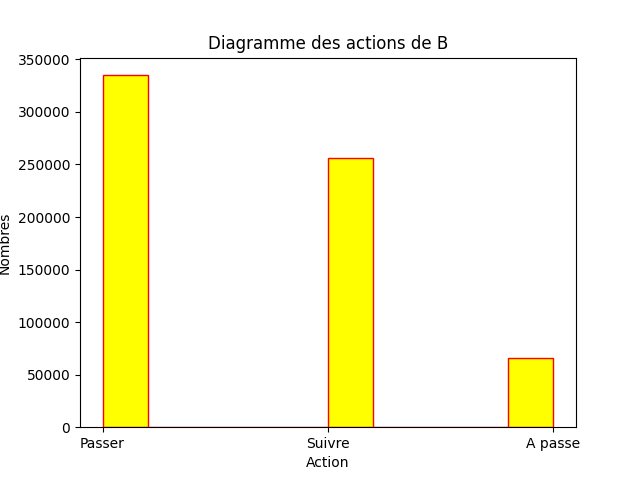
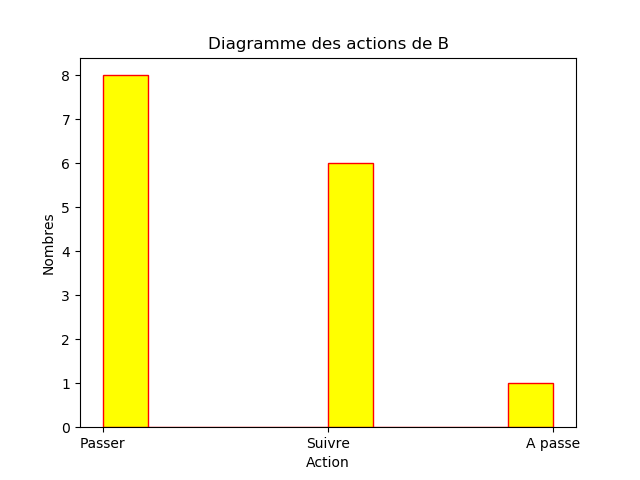
jeu interface qlearning maintenant disponible

diff --git a/Poker.py b/Poker.py
@@ -232,71 +232,91 @@ class Jeu:
 			
 	def jeu_interface_qlearning(self):
 		"""Jeu avec interface graphique"""
+		#initialisation
+		alpha = 0.0001
+		gamma = 0.001
+		epsilon = 0
 		self.tirer()
 		self.aff.charge_cartes()
 		self.aff.place_cartes()
-		ac = self.joueurA.takeAction(0.1) #Le joueur A joue
-		actionA = self.joueurA.ActionsVal(ac) # Le joueurA mise une somme(0, 1, 2, 4) par rapport à l'action effectuée
-		if(actionA > 0): # S'il mise on ajoute au pot
-			self.pot += actionA
-			print("A mise" + str(actionA) )
-			actionB = self.joueurB.jouer(actionA) # Le joueur B joue
-    
-			if(actionB == 0):
+		acb = 2
+		
+		#Déroulement du tour
+		ac = self.joueurA.takeAction(0.1) 
+		miseA = self.joueurA.ActionsVal(ac)
+		
+		####Si Alice mise####
+		if(miseA > 0): 
+			self.pot += miseA
+			print("A mise " + str(miseA) )
+			acb = self.joueurB.takeAction(epsilon, ac)
+			miseB = self.joueurB.ActionsVal(acb, miseA)
+			
+			####Si Bob passe####
+			if(miseB == 0):
 				print("B passe")
-				self.joueurA.ActualiserSolde(self.pot) # S'il passe le joueur A gagne 
-        
-			else: # S'il mise on vérifie qui a la plus grande valeur de carte
-        
-				self.pot += actionB
-				print("B mise " + str(actionB))
+				self.joueurA.ActualiserSolde(self.pot)
+			
+			####Si Bob mise####
+			else:        
+				self.pot += miseB
+				print("B suis")
  
+				####Vérification des cartes####
 				if (self.carteA > self.carteB):
-					self.joueurA.ActualiserSolde(self.pot) #Le joueur A gagne
+					self.joueurA.ActualiserSolde(self.pot)
 				elif (self.carteB > self.carteA):
-					self.joueurB.solde += self.pot #Le joueur B gagne
-				else: #Si les joueurs ont une égalité, chacun reprend son argent
-					self.joueurA.ActualiserSolde(actionA + 1)
-					self.joueurB.solde += (actionB + 1)    
-            
+					self.joueurB.solde += self.pot
+				else:
+					self.joueurA.ActualiserSolde(miseA + 1)
+					self.joueurB.solde += (miseB + 1)    
+        
+		####Si A passe####
 		else:
 			print("Joueur A passe")
 			self.joueurB.solde += self.pot #Si le joueur A passe, le joueur B gagne
 
+		####Affichage du résultat####
+		self.aff.retourne_cartes()
 		print("Pot: " + str(self.pot))
-		print("Carte A : " + str(self.joueurA.carte))
-		print("Carte B : " + str(self.joueurB.carte))
 		print("Solde A: " + str(self.joueurA.solde))
 		print("Solde B: " + str(self.joueurB.solde))
 		
+		####Calculs pour le Qlearning####
+		
+		#Enregistrement des variables
+		if(self.joueurA.carte <= 4 and ac >= 2):
+			self.countBluff += 1 
+		self.totalPlay += 1
+		self.listeA.append(ac)
+		self.listeB.append(acb)
 		carteATour1 = self.joueurA.carte
 		carteBTour1 = self.joueurB.carte
-		
+		recompenseB = self.joueurB.GetRecompense()
 		recompenseA = self.joueurA.GetRecompense()
-		self.aff.retourne_cartes()
-
-		#TOUR T+1: on définit quelle serait l'action suivante
 		
+		#Simulation du tour suivant
 		self.tirer_Sans_Mise()
-		ac1 = self.joueurA.takeAction(0) #Le joueur A joue
+		action_a_suiv = self.joueurA.takeAction(0) #Le joueur A joue
+		action_b_suiv = self.joueurB.takeAction(0, self.joueurA.ActionsValFake(action_a_suiv))
 		
 		#Q-Function
-		self.joueurA.grid[carteATour1 - 1][ac] = self.joueurA.grid[carteATour1 - 1][ac] + 0.001 * (recompenseA + 0.001 * self.joueurA.grid[self.joueurA.carte - 1][ac1] - self.joueurA.grid[carteATour1 - 1][ac])
-		
-		#Affichage la QGrid
-		
-		for s in range(0, 10):
-			print(self.joueurA.grid[s])
-		
+		self.joueurA.grid[carteATour1 - 1][ac] = self.joueurA.grid[carteATour1 - 1][ac] + 0.001 * (recompenseA + 0.001 * self.joueurA.grid[self.joueurA.carte - 1][action_a_suiv] - self.joueurA.grid[carteATour1 - 1][ac])
+		if (miseA > 0) :
+			self.joueurB.grid[(carteBTour1 - 1) * 4 + ac][acb] = self.joueurB.grid[(carteBTour1 - 1) * 4 + ac][acb] + alpha * (recompenseB + gamma * self.joueurB.grid[(self.joueurB.carte - 1) * 4 +action_a_suiv][action_b_suiv] - self.joueurB.grid[(carteBTour1 - 1) * 4 + ac][acb]) 
+
 	def jeu_interface_boucle_qlearning(self, n):
 		"""jeu avec interface répété n fois sans réinitialisation des joueurs"""
 		self.charge_interface()
-		for i in range(1,n):
+		for i in range(0,n):
 			self.jeu_interface_qlearning()
-			
-		pygame.quit()
-		
-		
+			if(self.joueurA.solde <= 0):
+				print("A perd à l'itération:"+ str(i))
+				break
+			if(self.joueurA.solde <= 0):
+				print("A perd à l'itération:"+ str(i))
+				break
+		pygame.quit()	
 		
 	def graphhistA(self):
 		plt.title("Diagramme des actions de A")
@@ -331,9 +351,9 @@ def main():
 	j=Jeu()
 	j.joueurA.init_grille()
 	j.joueurB.init_grille()
-	for i in range (0, 50) : 
+	for i in range (0, 3) : 
 		print("Partie: " + str(i))
-		j.jeu_simple_boucle_qlearning(i)
+		j.jeu_interface_boucle_qlearning(5)
 		j.reset_partie()
 	
 	j.joueurA.grid = np.around(j.joueurA.grid, 5)	
@@ -342,7 +362,7 @@ def main():
 	j.joueurB.ecrit_grille()
 	j.graphhistA()
 	j.graphhistB()
-	print("Bluff"+ str(j.countBluff)+ "sur" + str(j.totalPlay) )
+	print("Bluff"+ str(j.countBluff)+ " sur " + str(j.totalPlay) )
 	
 	#j.graphlineA()
 	

diff --git a/Stats.py b/Stats.py
@@ -1,0 +1,110 @@
+#import Poker
+import matplotlib.pyplot as pyplot
+
+class table:
+	def __init__(self):
+		self.carte_alice=list()
+		self.carte_bob=list()
+		self.action_alice=list()
+		self.action_bob=list()
+		self.resultat=list()
+		self.nb_tours=0
+		self.nb_bluff=0
+	
+	def update(self, j, action_a, action_b, res):
+		self.nb_tours+=1
+		self.carte_alice.append(j.joueurA.carte)
+		self.carte_alice.append(j.joueurA.carte)
+		
+		if action_a==0:
+			action_b=-1
+		self.action_alice.append(action_a)
+		self.action_bob.append(action_b)
+		self.resultat.append(res)
+	
+	def fin_partie(self, bluff):
+		self.nb_bluff=bluff
+
+class tables:
+	def __init__(self,n):
+		self.nb_parties=n
+		self.parties=list()
+		self.nb_tours=list()
+		self.current_table=table()
+		self.bluff=list()
+		self.cadrage=list()
+		self.current=0
+		
+		self.init_cadrage()
+		
+	def update(self, j, action_a, action_b, res):
+		self.current_table.update(j, action_a, action_b, res)
+		
+	def fin_partie(self, bluff):
+		self.current_table.fin_partie(bluff)
+		self.parties.append(self.current_table)
+		self.current_table=table()
+	
+	def liste_simple(self, liste):
+		"""Transforme une liste de listes en liste simple"""
+		res=liste
+		while len(res)>1:
+			tmp=res[0]
+			del res[0]
+			res[0]=tmp+res[0]
+		return res[0]
+		
+	def init_cadrage(self):
+		for i in range(0,self.nb_parties):
+			self.cadrage.append(i)
+	
+	def calcul_nb_tours(self):
+		for i in range(0,self.nb_parties):
+			self.nb_tours.append(self.parties[i].nb_tours)
+	
+	def calcul_bluff(self):
+		for i in range(0,self.nb_parties):
+			self.bluff.append(float(self.parties[i].nb_bluff)/float(self.parties[i].nb_tours))
+	
+	def show_nb_tours(self):
+		self.calcul_nb_tours()
+		pyplot.scatter(self.cadrage, self.nb_tours)
+		pyplot.title("Tours nécessaires à l'élimination de Alice")
+		pyplot.xlabel('Parties jouées')
+		pyplot.ylabel('Nombre de tours')
+		pyplot.xticks([0, self.nb_parties/2, self.nb_parties])
+		pyplot.savefig("ressources/stats/durée_jeu.png")
+		pyplot.show()
+	
+	def show_nb_bluffs(self):
+		self.calcul_bluff()
+		pyplot.plot(self.bluff)
+		pyplot.title("Evolution du nombre de bluffs")
+		pyplot.xlabel('Parties jouées')
+		pyplot.ylabel('Nombre de bluffs')
+		pyplot.xticks([0, self.nb_parties/2, self.nb_parties])
+		pyplot.savefig("ressources/stats/nombre_bluffs.png")
+		pyplot.show()
+		
+	def show_actions_alice(self, i):
+		pyplot.hist(self.parties[i].action_alice)
+		pyplot.title("Actions de Alice")
+		pyplot.xlabel('Action')
+		pyplot.ylabel('Nombres')
+		pyplot.xticks([0, 1, 2, 3], ["Passer", "Miser 1", "Miser 2", "Miser 3"])
+		pyplot.savefig("ressources/stats/alice_"+str(i+1)+".png")
+		pyplot.show()
+		
+	def show_actions_bob(self, i):
+		pyplot.hist(self.parties[i].action_bob)
+		pyplot.title("Actions de Bob")
+		pyplot.xlabel('Action')
+		pyplot.ylabel('Nombres')
+		pyplot.xticks([-1, 0, 1], ["Alice Passe", "Passer", "Suivre"])
+		pyplot.savefig("ressources/stats/bob_"+str(i+1)+".png")
+		pyplot.show()
+			
+def main():
+	t=table()
+	t.update(Poker.Jeu(),1,1,1)
+	print("ok")
